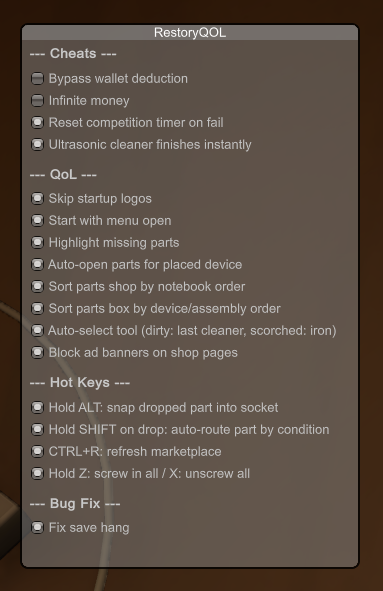
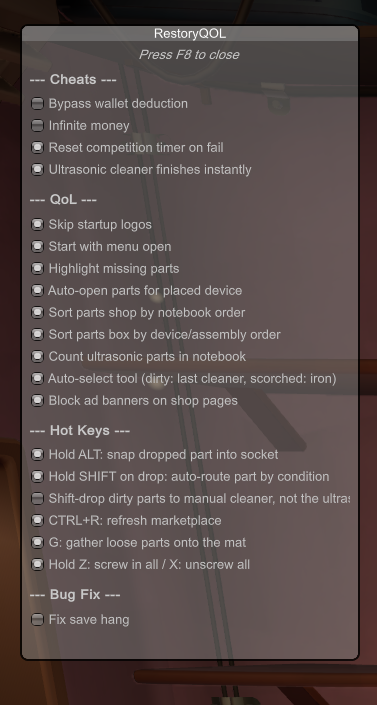
[+] Screenshots

Changed region(s): [[0.0, 0.0, 1.0, 1.0], [0.992, 0.4264, 1.0, 0.4569]]

diff --git a/README.md b/README.md
@@ -85,3 +85,13 @@ Below are some screenshots of the features
 <img src="docs/sort-parts-box-1.png" alt="screenshot of parts box sorted" width="600">
 <img src="docs/sort-parts-box-2.png" alt="screenshot of parts box sorted" width="600">
 </details>
+
+<details>
+<summary>Ultrasonic items show up in notebook</summary>
+<img src="docs/ultrasonic-items.png" alt="screenshot of ultrasonic items in the notebook" width="600">
+</details>
+
+<details>
+<summary>Press G to gather parts</summary>
+<img src="docs/gather-parts.png" alt="screenshot of parts being gathered with the G key" width="600">
+</details>
